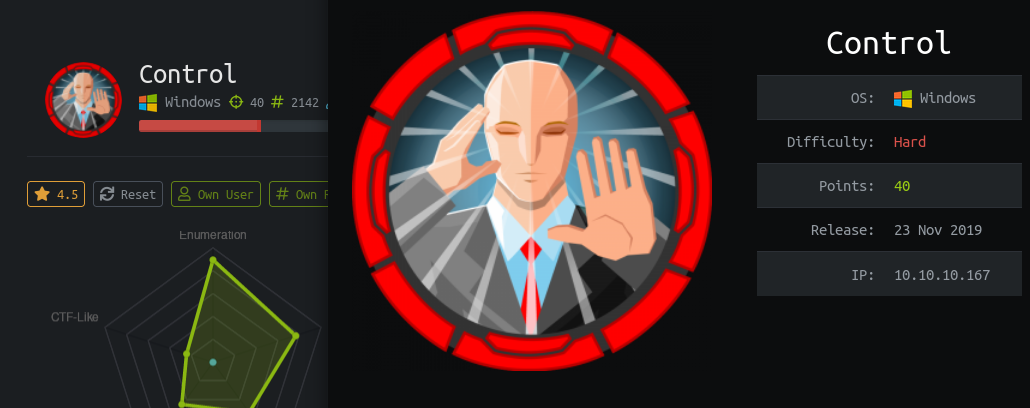
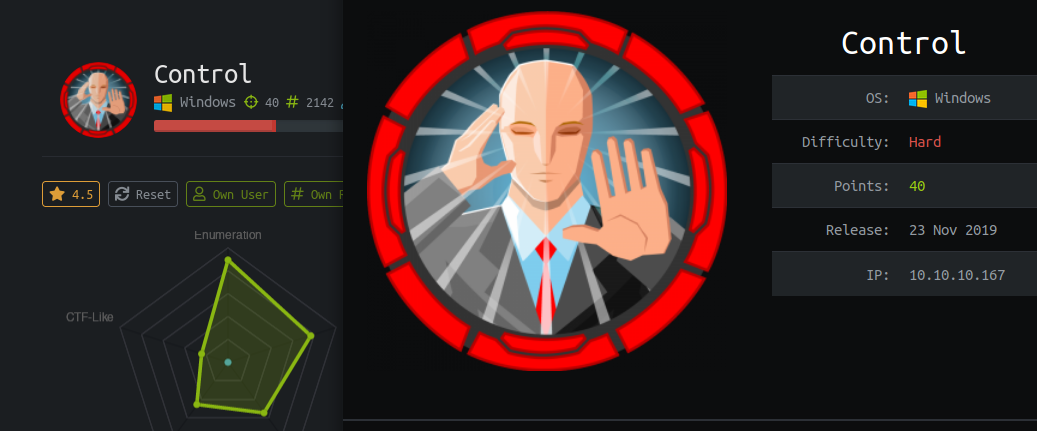
control post

diff --git a/_posts/2020-29-04-Control-HackTheBox-writeup.md b/_posts/2020-29-04-Control-HackTheBox-writeup.md
@@ -6,7 +6,11 @@ categories: [Blogging, HTB, Writeup]
 tags: [htb,pentest,windows,hard,services,retired]
 ---
 
-![](https://github.com/dumbx90/dumbx90.github.io/blob/master/assets/img/commons/active-description.png?raw=true)
+
+
+<img src="https://raw.githubusercontent.com/dumbx90/dumbx90.github.io/master/assets/img/commons/hackthebox/control/control-infocard.png" alt="control-webpage" style="zoom:75%;" />
+
+
 
 <script id="asciicast-IjAIFheWFsb5wVNBZReXTyXLg" src="https://asciinema.org/a/IjAIFheWFsb5wVNBZReXTyXLg.js" async></script>
 
